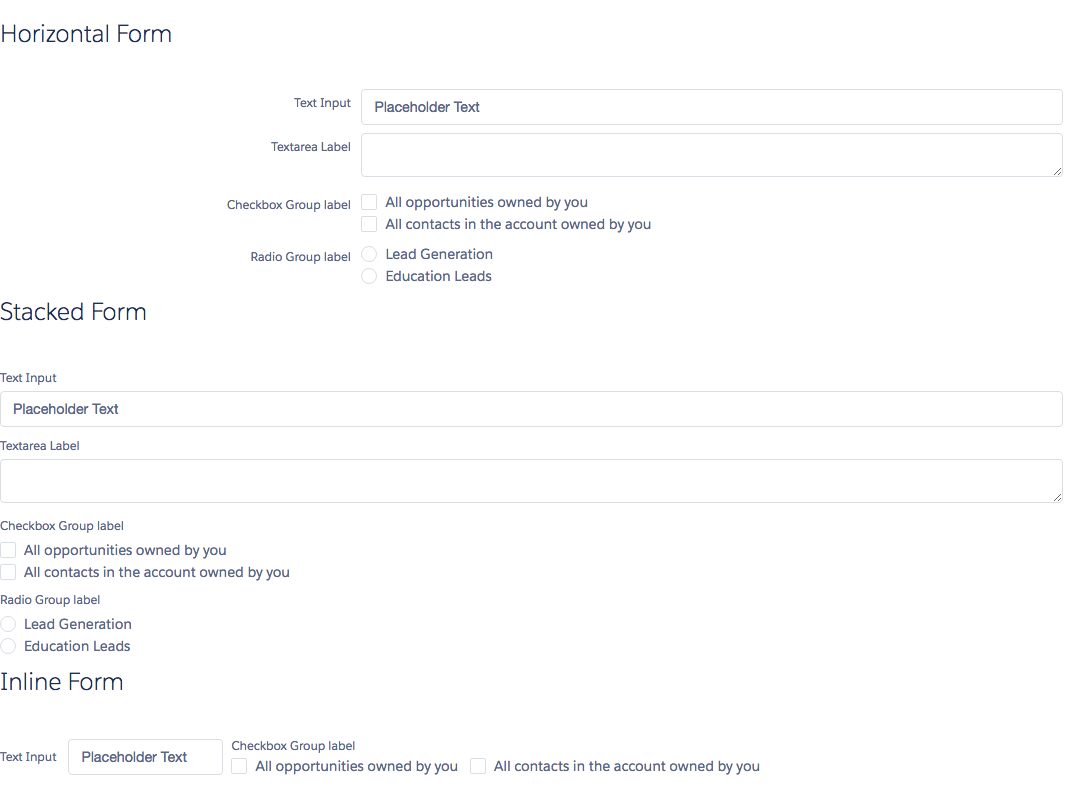
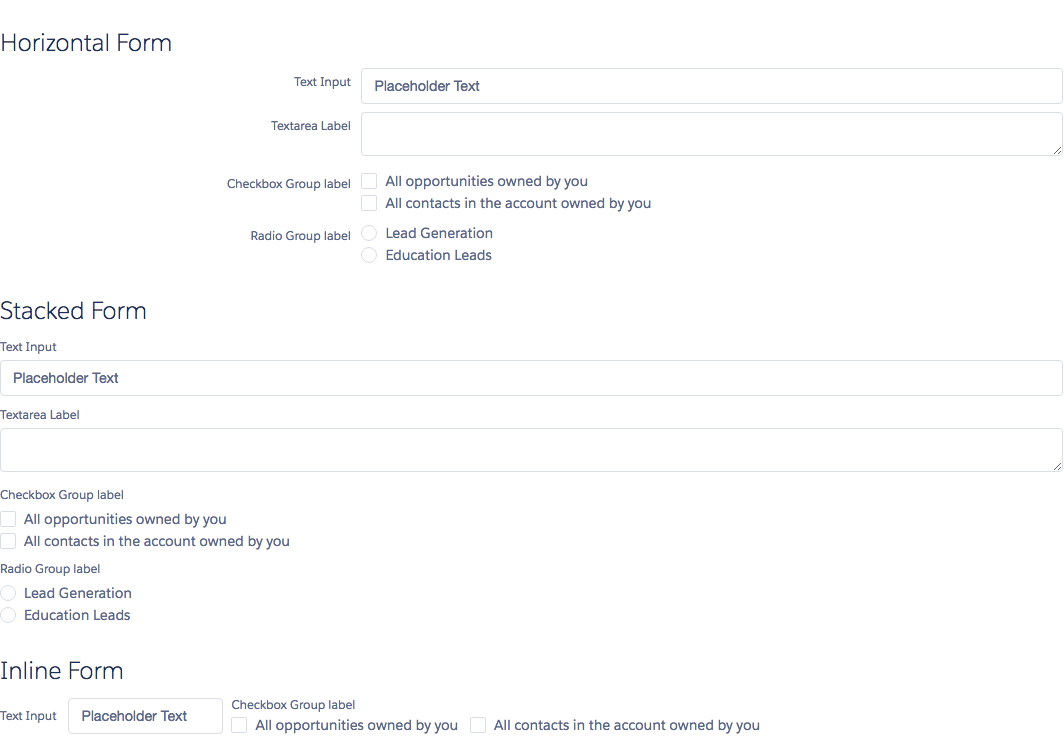
Form - updated example styles

diff --git a/src/aura/ExampleForm/ExampleForm.css b/src/aura/ExampleForm/ExampleForm.css
@@ -1,4 +1,4 @@
 .THIS .slds-text-heading--medium {
-    margin-top: 10px;
-    margin-bottom: 40px;
+    margin-top: 30px;
+    margin-bottom: 10px;
 }
